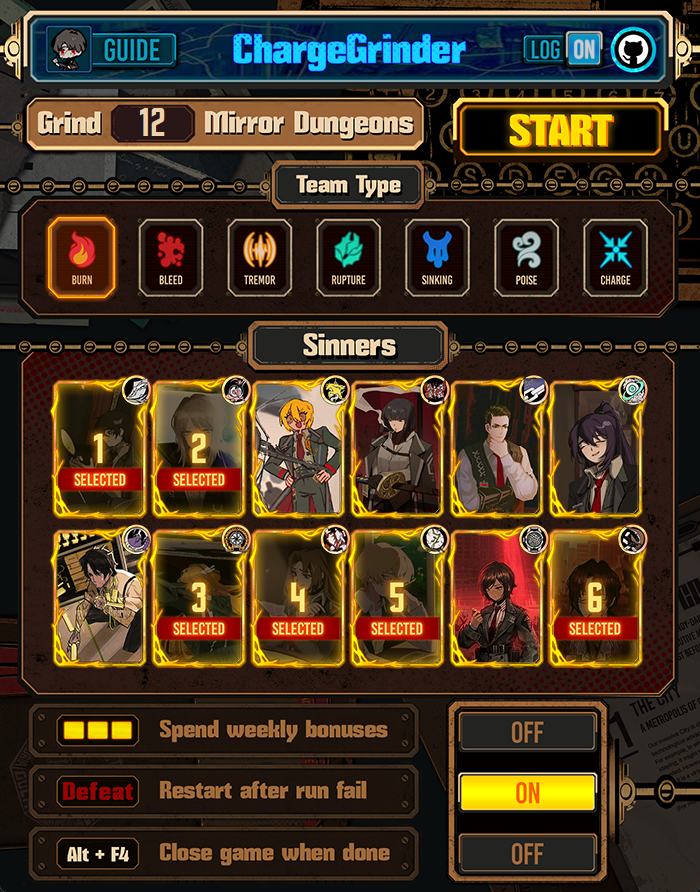
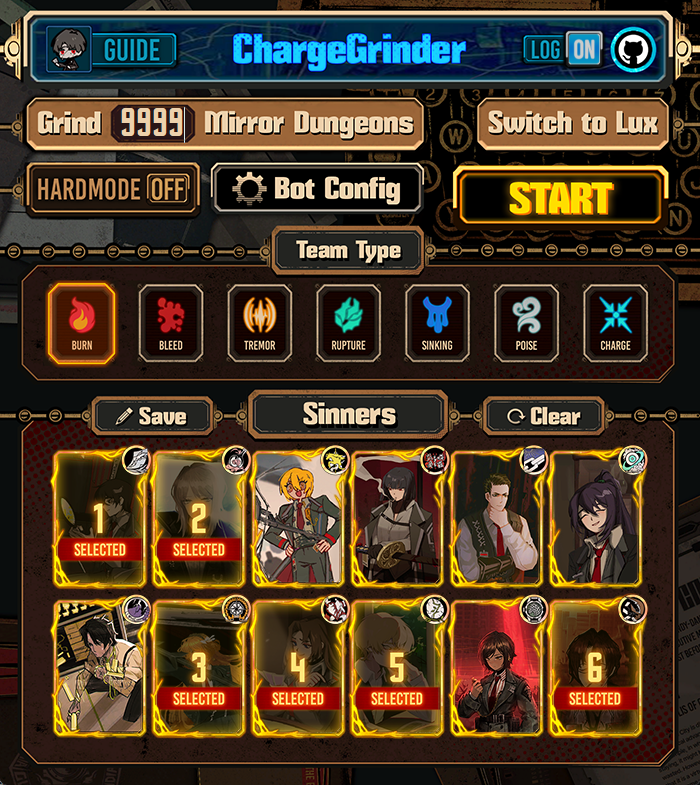
update readme

diff --git a/README.md b/README.md
@@ -29,18 +29,20 @@ Generally, each floor takes no more than 5 minutes, so a full MD5 run lasts betw
 - ## Supports all team builds (Burn is recommended)
   - ***Pick the right team before starting the bot!***
   - Burn is the fastest team with average time of 22 minutes per run.
-  - If team members are already selected, bot will **not** change your selection.
-  - Bot only selects team memebers if selected number for battle is less than 6.
   - Recommended team:
   
 > ![team.png](ImageAssets/readme/team.png)
 ---
 
 - ## Selects Floor Packs
-  - Avoids packs with high mortality rate and long fights such as: <p>
+  - ### By default:
+    - Avoids packs with high mortality rate and long fights such as: <p>
   **The Noon of Violet, Murder on the WARP Express, Full-Stopped by a Bullet, Timekilling Time, Nocturnal Sweeping, To Claim their Bones** and some other.
-  - Prioritizes floors with unique ego gifts such as: <p>
+    - Prioritizes floors with unique ego gifts such as: <p>
   **The Outcast, Hell's Chicken** and some other.
+  - ## You can set your own pack priority in config!
+
+  <p align="center"><img src="ImageAssets/readme/config.png" /></p>
 
 - ## Selects the best next node
   - The choice priority order: <p>
@@ -68,6 +70,10 @@ Generally, each floor takes no more than 5 minutes, so a full MD5 run lasts betw
   - Upties and buys affinity-related gifts
 - ## Restarts if run fails
   - If 6 or more sinners are dead, the bot (with default settings) will restart the run.
+- ## Supports Luxcavation grind
+
+<p align="center"><img src="ImageAssets/readme/lux.png" /></p>
+
 - ## Reclicks if action failed
   - Sometimes timings mess up, so in order to address this issue most bot actions are double-verified.
 
@@ -87,7 +93,7 @@ ChargeGrinder still needs additional features, testing, and bug fixes. However, 
 # Installation
 ### 📦 Option 1: Run the Prebuilt Executable 
 [![Download](https://img.shields.io/badge/CGrinder.exe-Download-blue.svg)](https://github.com/AlexWalp/Mirror-Dungeon-Bot/releases/download/v1.0.3/CGrinder.exe) <p>
-- Launch **CGrinder.exe** from the `dist` folder—no additional files required.
+- Launch **app.exe** from the `dist` folder—no additional files required.
 - No OCR is used anymore, all detection is now done with open cv.
 
 ### 🐍 Option 2: Run with Python
@@ -96,8 +102,8 @@ Make sure you have **Python 3** installed. Then either:
 pip install -r requirements.txt
 ```
 or manually install:
-- `numpy`
 - `opencv-python-headless`
+- `numpy`
 - `PyQt6`
 
 Then you can run `App.py` for GUI interface or run `Bot.py` for cmd input without GUI.
